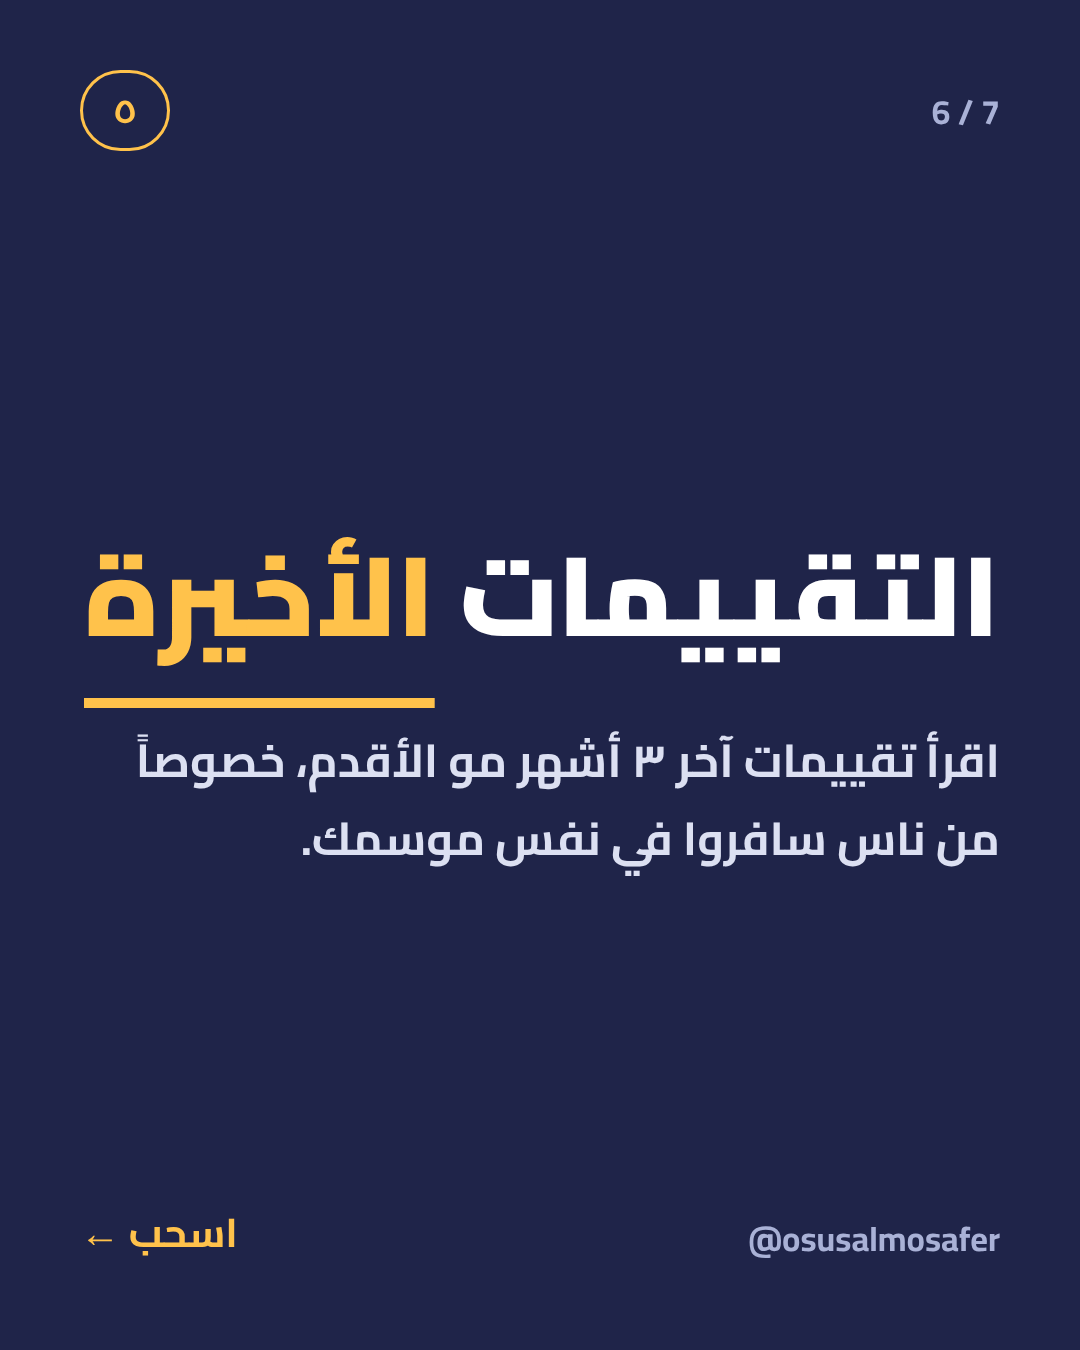
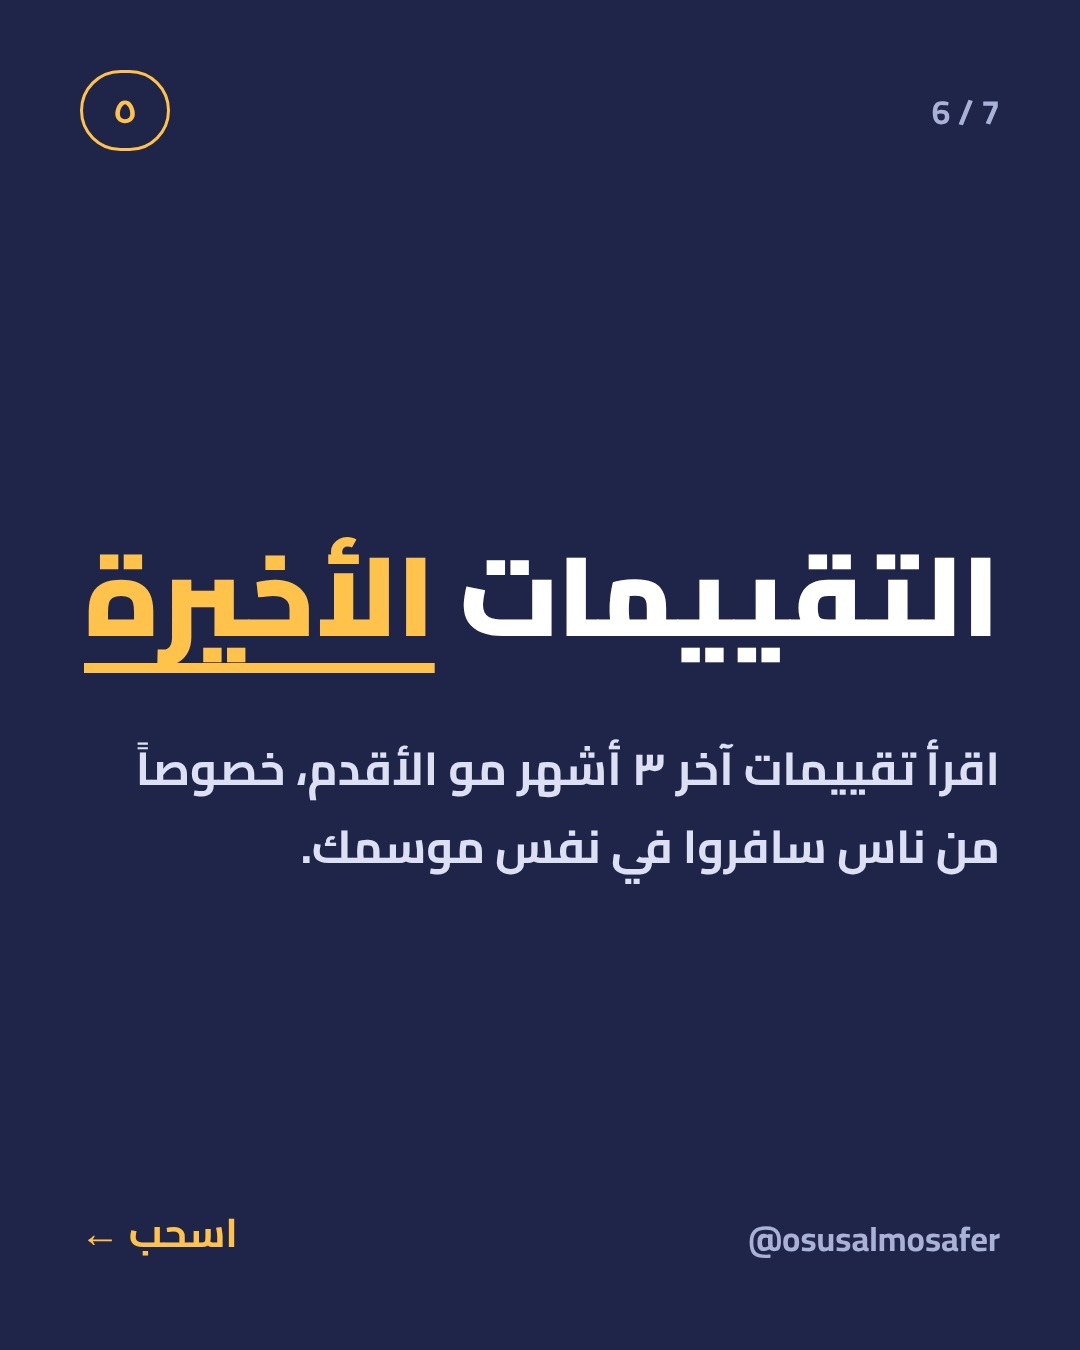
Carousel 2: fix highlight underline wrap
Claude-Session: https://claude.ai/code/session_018nkkgV5L9WVzQYR2S6kDaX

Changed region(s): [[0.0611, 0.4667, 0.9167, 0.6533]]

diff --git a/carousel/carousel3.html b/carousel/carousel3.html
@@ -11,7 +11,7 @@
 .main{position:absolute;right:80px;left:80px;top:420px;z-index:2}
 h1{font-weight:900;font-size:112px;line-height:1.35}
 .cover h1{font-size:128px}
-u{color:var(--ac);text-decoration:none;background:linear-gradient(var(--ac),var(--ac)) bottom 6px right/100% 10px no-repeat;padding-bottom:14px}
+u{display:inline-block;white-space:nowrap;line-height:1.25;color:var(--ac);text-decoration:none;background:linear-gradient(var(--ac),var(--ac)) bottom 6px right/100% 10px no-repeat;padding-bottom:14px}
 .body,.sub{font-weight:700;font-size:46px;line-height:1.7;margin-top:50px;color:#DCE0F2}
 .big{position:absolute;left:60px;top:200px;font-size:420px;font-weight:900;color:var(--ac);opacity:.12;line-height:1;direction:ltr}
 .card .main{top:520px}

diff --git a/carousel/gen3.py b/carousel/gen3.py
@@ -32,7 +32,7 @@ html=f'''<!doctype html><html lang="ar" dir="rtl"><head><meta charset="utf-8"><s
 .main{{position:absolute;right:80px;left:80px;top:420px;z-index:2}}
 h1{{font-weight:900;font-size:112px;line-height:1.35}}
 .cover h1{{font-size:128px}}
-u{{color:var(--ac);text-decoration:none;background:linear-gradient(var(--ac),var(--ac)) bottom 6px right/100% 10px no-repeat;padding-bottom:14px}}
+u{{display:inline-block;white-space:nowrap;line-height:1.25;color:var(--ac);text-decoration:none;background:linear-gradient(var(--ac),var(--ac)) bottom 6px right/100% 10px no-repeat;padding-bottom:14px}}
 .body,.sub{{font-weight:700;font-size:46px;line-height:1.7;margin-top:50px;color:#DCE0F2}}
 .big{{position:absolute;left:60px;top:200px;font-size:420px;font-weight:900;color:var(--ac);opacity:.12;line-height:1;direction:ltr}}
 .card .main{{top:520px}}
